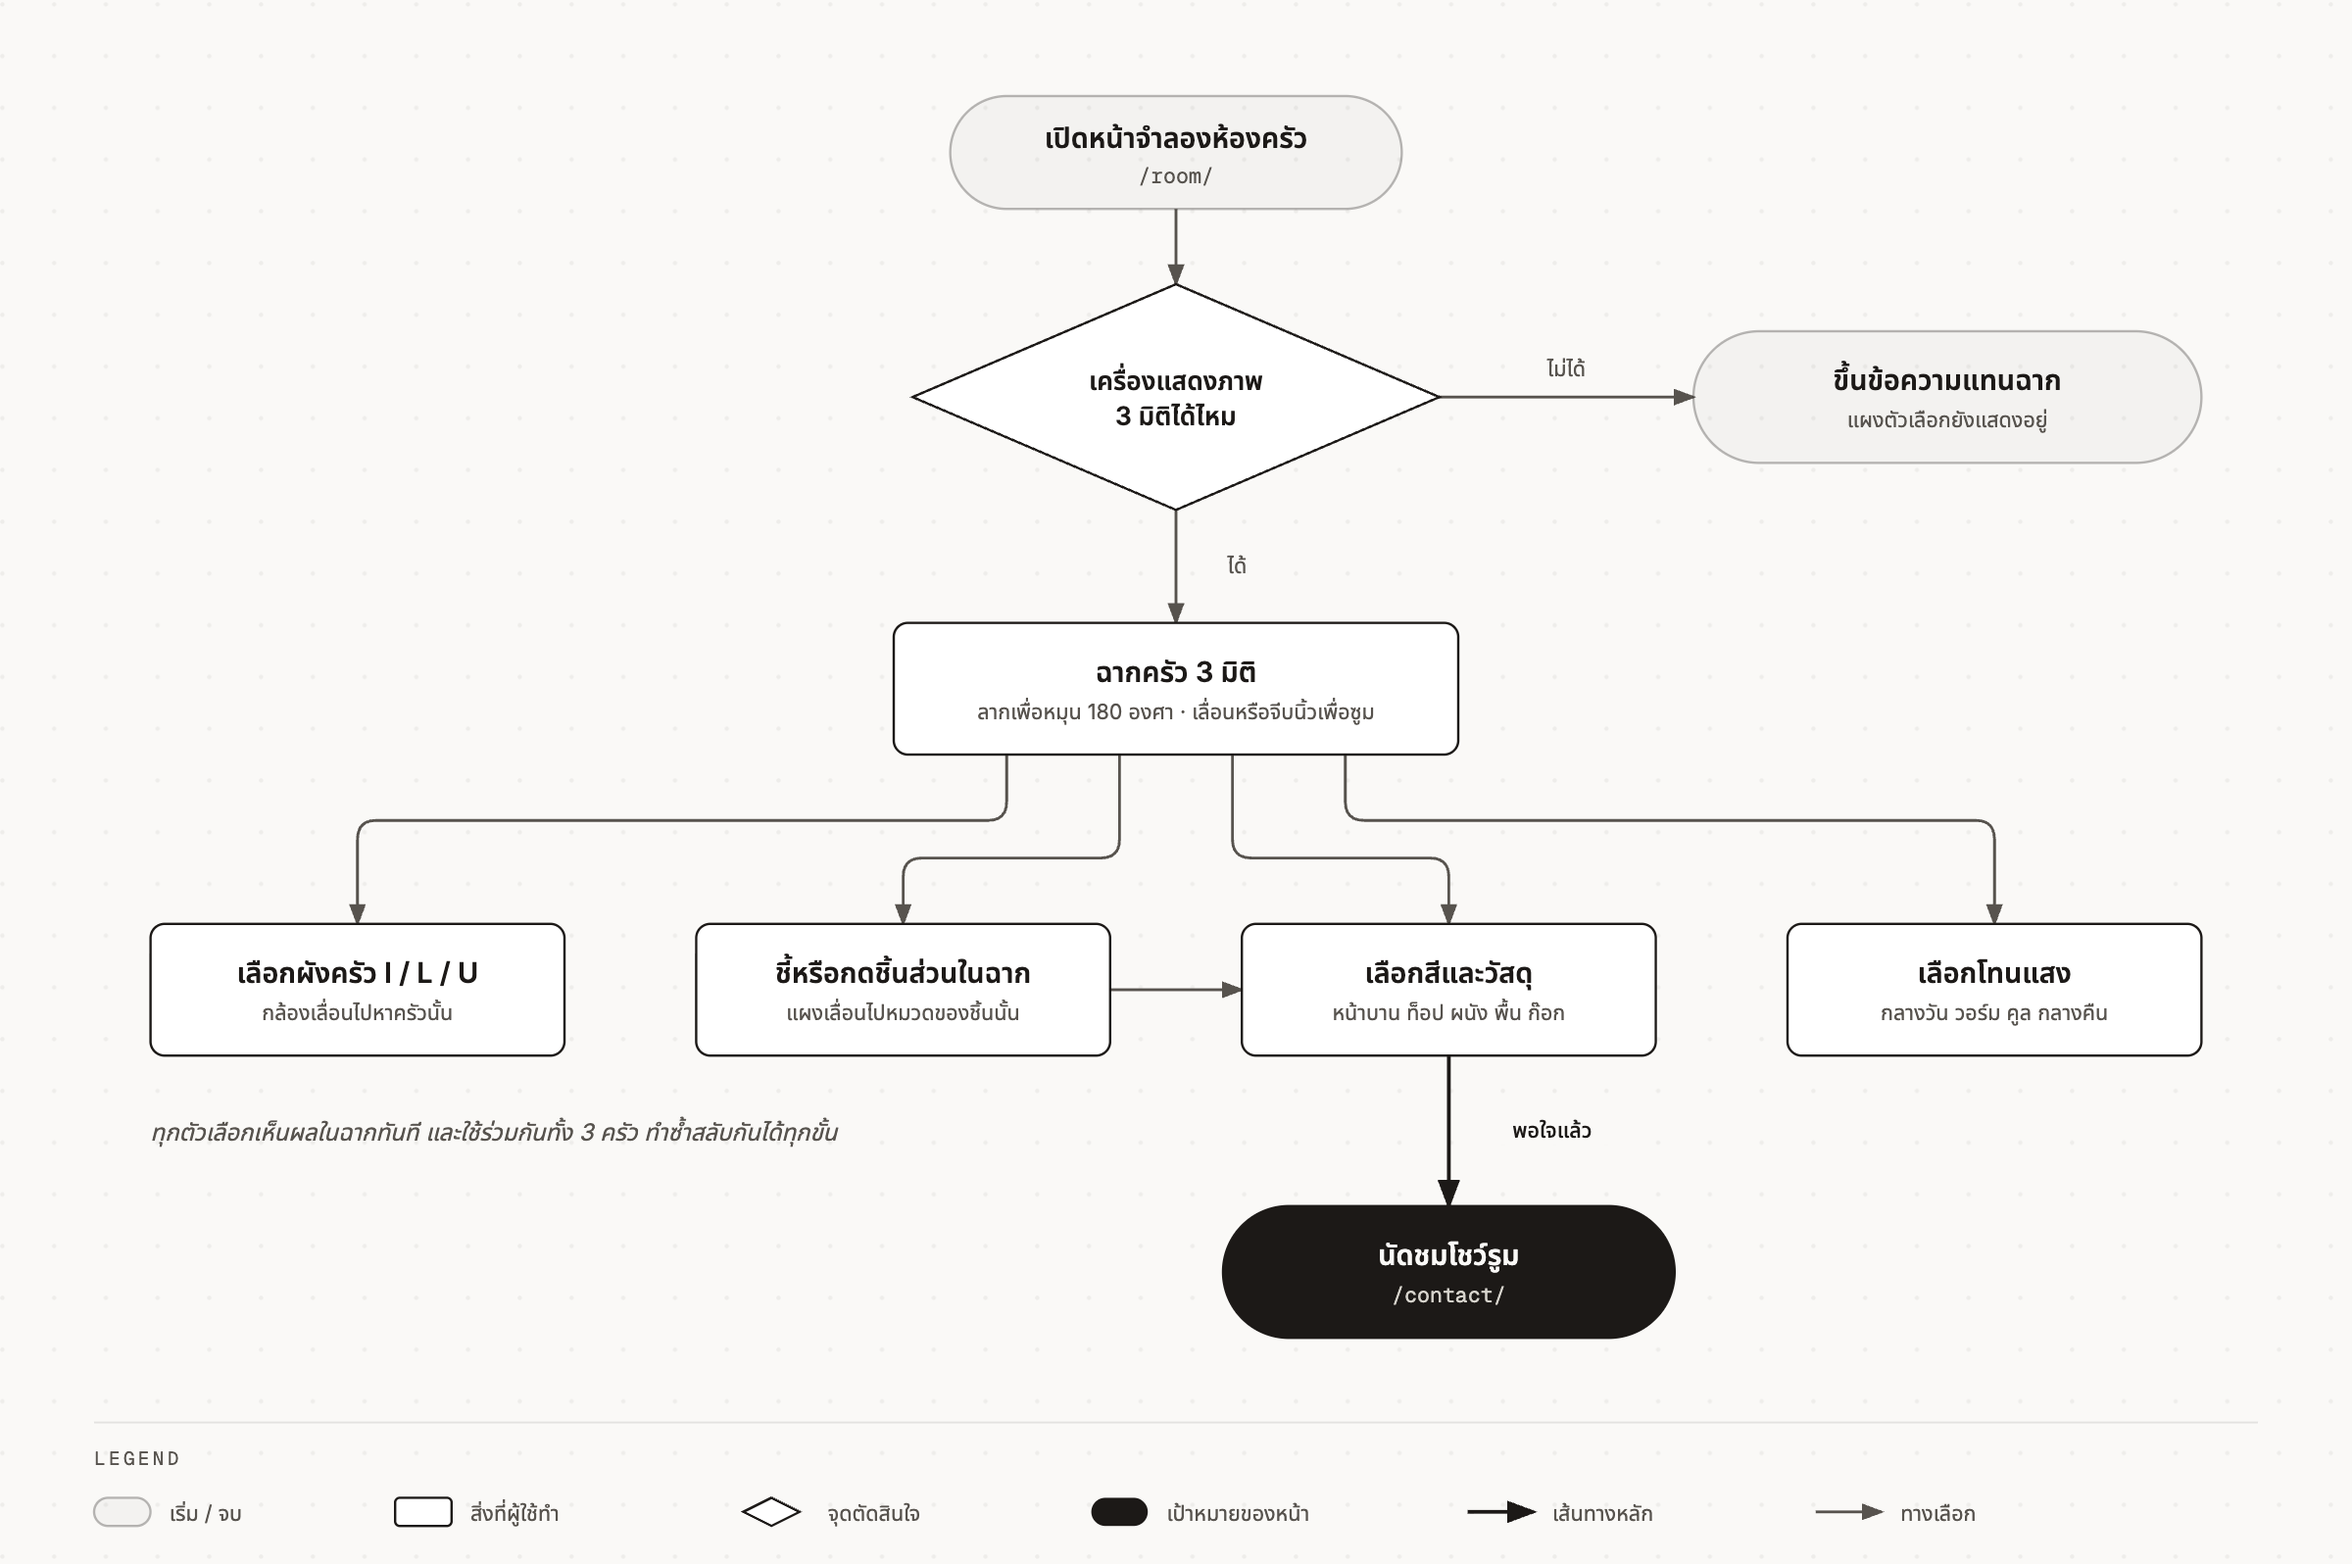
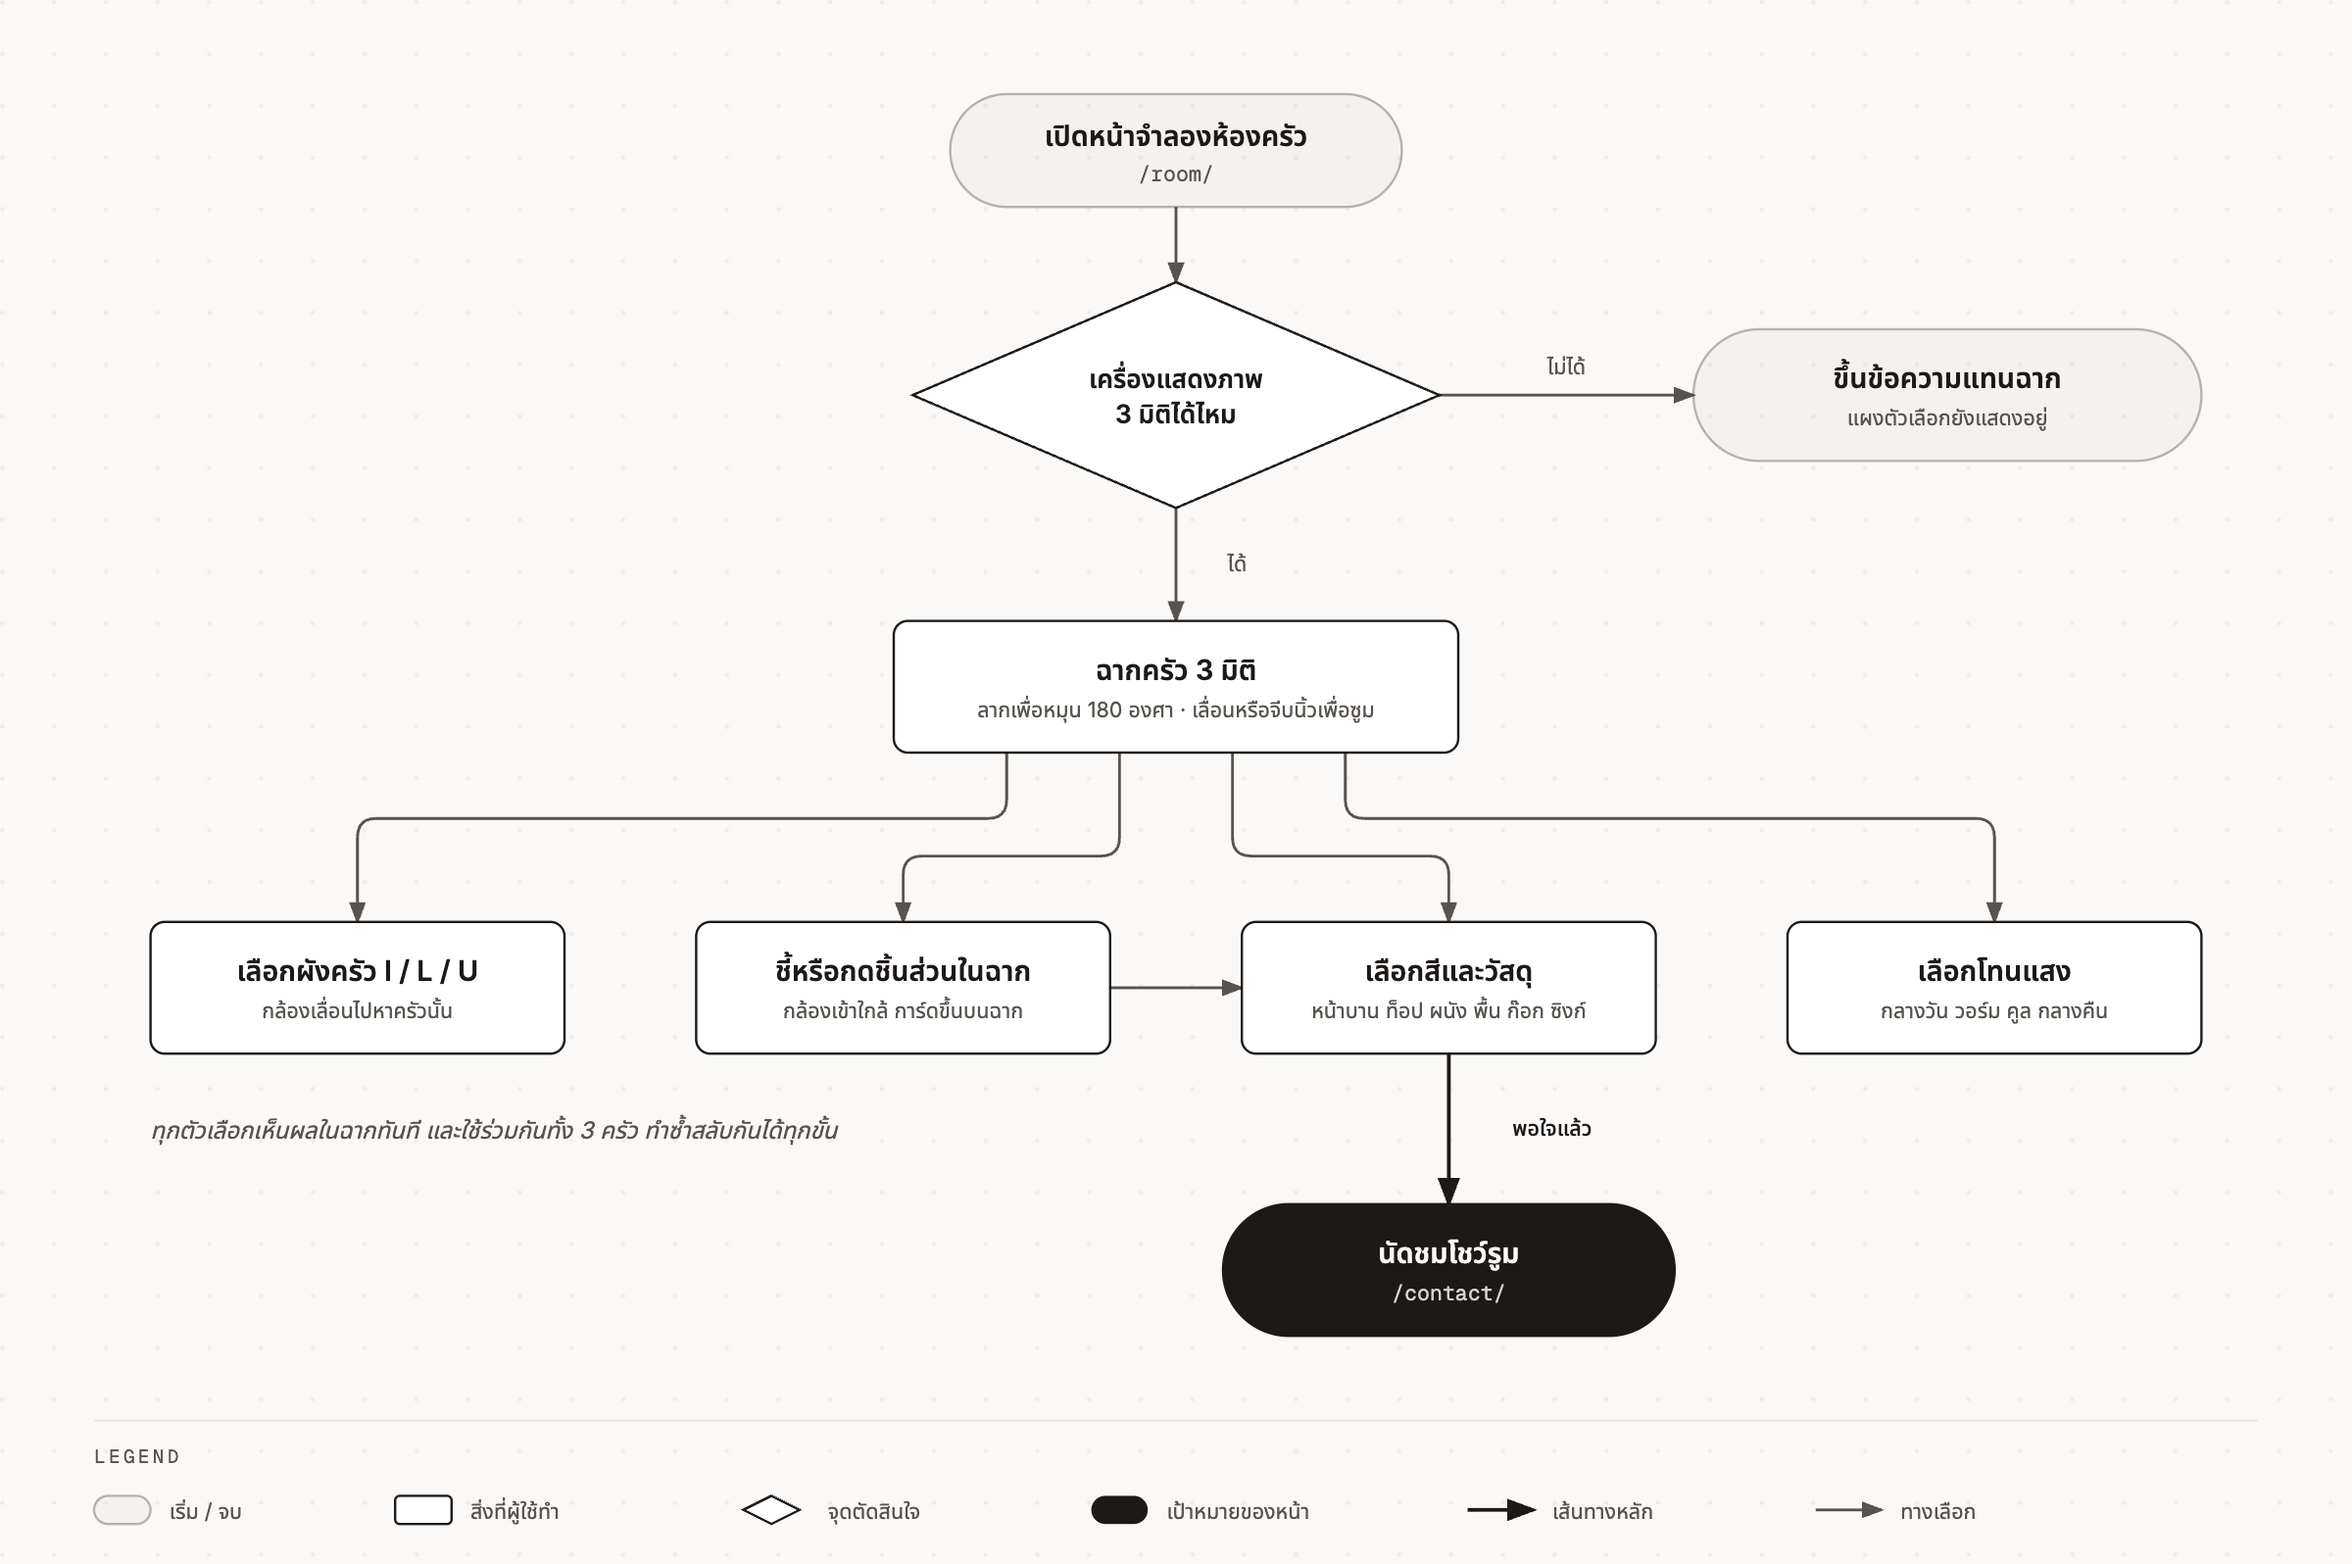
docs: record faucet and sink shapes, motion and the focus mode in the studio spec and flow diagram

diff --git a/docs/room/room-usage-flow.html b/docs/room/room-usage-flow.html
@@ -123,12 +123,12 @@
       <!-- B: click a part -->
       <rect x="296" y="392" width="176" height="56" rx="6" fill="#ffffff" stroke="#1c1917" stroke-width="1"/>
       <text x="384" y="417" fill="#1c1917" font-size="12" font-weight="600" text-anchor="middle">ชี้หรือกดชิ้นส่วนในฉาก</text>
-      <text x="384" y="433" fill="#57534e" font-size="9" text-anchor="middle">แผงเลื่อนไปหมวดของชิ้นนั้น</text>
+      <text x="384" y="433" fill="#57534e" font-size="9" text-anchor="middle">กล้องเข้าใกล้ การ์ดขึ้นบนฉาก</text>
 
       <!-- C: materials -->
       <rect x="528" y="392" width="176" height="56" rx="6" fill="#ffffff" stroke="#1c1917" stroke-width="1"/>
       <text x="616" y="417" fill="#1c1917" font-size="12" font-weight="600" text-anchor="middle">เลือกสีและวัสดุ</text>
-      <text x="616" y="433" fill="#57534e" font-size="9" text-anchor="middle">หน้าบาน ท็อป ผนัง พื้น ก๊อก</text>
+      <text x="616" y="433" fill="#57534e" font-size="9" text-anchor="middle">หน้าบาน ท็อป ผนัง พื้น ก๊อก ซิงก์</text>
 
       <!-- D: light -->
       <rect x="760" y="392" width="176" height="56" rx="6" fill="#ffffff" stroke="#1c1917" stroke-width="1"/>

diff --git a/docs/superpowers/specs/2026-10-04-room-focus-mode-design.md b/docs/superpowers/specs/2026-10-04-room-focus-mode-design.md
@@ -50,8 +50,9 @@ the scene. The side panel remains a complete keyboard path to every choice; focu
 cannot reach there.
 
 **Layout of the card.** `lg` and up: bottom-left of the scene, 300 px wide, `bg-paper`, 1 px `warm-300` border, sharp
-corners, no shadow. Below `lg`: a strip along the bottom edge of the scene, full width, with the choice name, the dots
-and the back button on one row and the description under it, at most two lines. The sticky scene height does not
+corners, no shadow. Below `lg`: a strip along the bottom edge of the scene, full width, with the part and choice name on the first row, the dots
+and the back button on the second row and the description under them. The view shifts up by half the strip's height so
+the focused part stays clear of it. The sticky scene height does not
 change.
 
 ## Data (`lib/room.ts`, still import-free, MOCK)
@@ -115,3 +116,21 @@ pane: reduced motion, a real phone.
 Dressing the hall (job A), linking parts to Kohler products or the product pages, prices, focusing fixed parts (hob,
 oven, sink), per-kitchen materials, 3D text, a tour that visits parts automatically, saving a configuration, PR,
 merge, deploy.
+
+## Addendum 2026-10-04: faucet and sink shapes, motion
+
+Requested in chat by anuwat during execution ("ลองปั้นก๊อกและซิงก์ในแต่ละรูปแบบ แล้วให้ user เลือกเปลี่ยนได้", then
+"ใส่ motion ultrasmooth"). Built without a separate approval round because both arrived with or during "ลุยเลย".
+
+- **Shapes.** `FAUCET_SHAPES` (gooseneck, square, spring) and `SINKS` (single, double, round) in `lib/room.ts`, names and
+  notes in Thai and English, MOCK. `Picks` gains `faucetShape` and `sink`. All shapes are built once in `kitchen.ts`
+  and `RoomScene` shows the chosen one. They are sample forms, not models on sale; the page note says so.
+- **Sink is now a focusable part** (this replaces "sink" in the list of fixed parts and in Out of scope). Its card has
+  shape buttons and no colour dots. The faucet card has both colour dots and shape buttons. The side panel has two new
+  groups, "Faucet shape" and "Sink".
+- **The faucet has an invisible hit box** around its stem so a thin spout is easy to click.
+- **Motion.** Flights last 1.4 s and ease in and out (this replaces 1.2 s). The zoom and rotate buttons glide over
+  0.5 s. The card rises in over 0.5 s, the guide line and label fade, and a newly chosen faucet settles onto the
+  counter. Under reduced motion everything still jumps.
+- Not done: a cross-fade between materials when a colour changes (the swap is instant), and a transition for the sink
+  shape (its countertop cut-out changes with it).

diff --git a/docs/superpowers/specs/2026-10-03-room-studio-design.md b/docs/superpowers/specs/2026-10-03-room-studio-design.md
@@ -83,7 +83,7 @@ images from the supplier replace them later (out of scope).
 - On portrait screens the vertical field of view widens so the kitchen keeps its width in frame.
 - Parts in the scene respond (added 2026-10-03, owner's request): pointing at doors, countertop, backsplash, floor or
   faucet brightens every piece that shares that material and shows a label with the part and its current choice; a
-  click or tap (under 5 px of movement, so a drag still orbits) scrolls the panel to that part's options. Fixed parts
+  click or tap (under 5 px of movement, so a drag still orbits) scrolls the panel to that part's options. (Superseded: a click now enters the part focus mode, see `2026-10-04-room-focus-mode-design.md`.) Fixed parts
   (hob, oven, sink, walls) do not respond.
 - The wheel zooms the scene while the pointer is over it (`data-lenis-prevent`); a touch drag on the scene orbits
   instead of scrolling the page.
